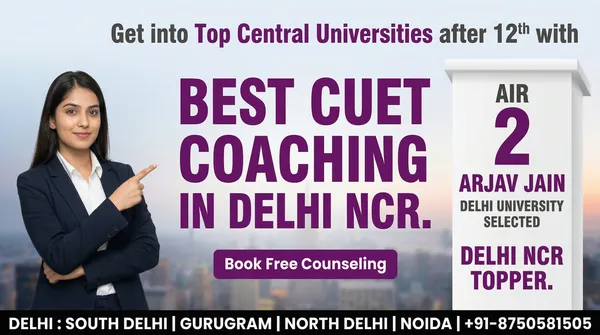
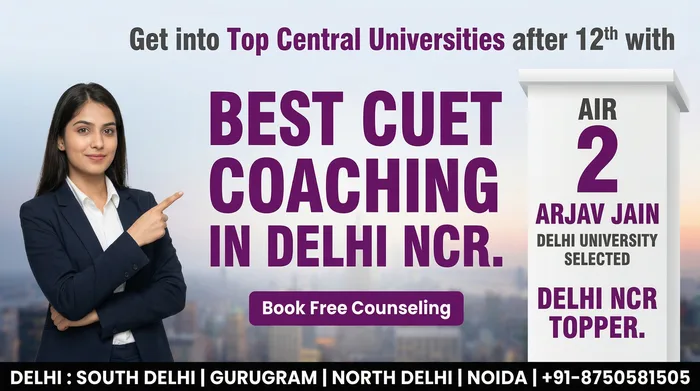
Fix hero image UI - remove cropping
- Remove aspect-ratio container that was cutting off image
- Regenerate hero images with correct dimensions (1200x670)
- Use natural image sizing instead of object-cover
- Align form card to top with items-start

diff --git a/src/components/HeroSection.tsx b/src/components/HeroSection.tsx
@@ -6,31 +6,29 @@ const HeroSection = () => {
 
   return (
     <section id="register" className="bg-white py-8 md:py-12 px-4 md:px-6">
-      <div className="mx-auto flex max-w-[1280px] flex-col gap-6 lg:flex-row lg:items-center">
-        {/* Left — Banner with fixed aspect ratio to prevent CLS */}
+      <div className="mx-auto flex max-w-[1280px] flex-col gap-6 lg:flex-row lg:items-start">
+        {/* Left — Banner */}
         <div className="w-full lg:w-[65%]">
-          <div className="relative aspect-[4/3] w-full overflow-hidden rounded-xl bg-gray-100">
-            <picture>
-              <source 
-                media="(max-width: 640px)" 
-                srcSet="/hero-image-mobile.webp" 
-                type="image/webp" 
-              />
-              <source 
-                srcSet="/hero-image.webp" 
-                type="image/webp" 
-              />
-              <img
-                src="/hero-image-optimized.png"
-                alt="CUET 2026 — Prepare Now"
-                className="absolute inset-0 h-full w-full object-cover"
-                width={832}
-                height={624}
-                fetchPriority="high"
-                decoding="async"
-              />
-            </picture>
-          </div>
+          <picture>
+            <source 
+              media="(max-width: 640px)" 
+              srcSet="/hero-image-mobile.webp" 
+              type="image/webp" 
+            />
+            <source 
+              srcSet="/hero-image.webp" 
+              type="image/webp" 
+            />
+            <img
+              src="/hero-image-optimized.png"
+              alt="CUET 2026 — Prepare Now"
+              className="w-full rounded-xl"
+              width={832}
+              height={624}
+              fetchPriority="high"
+              decoding="async"
+            />
+          </picture>
         </div>
 
         {/* Right — Form Card */}
